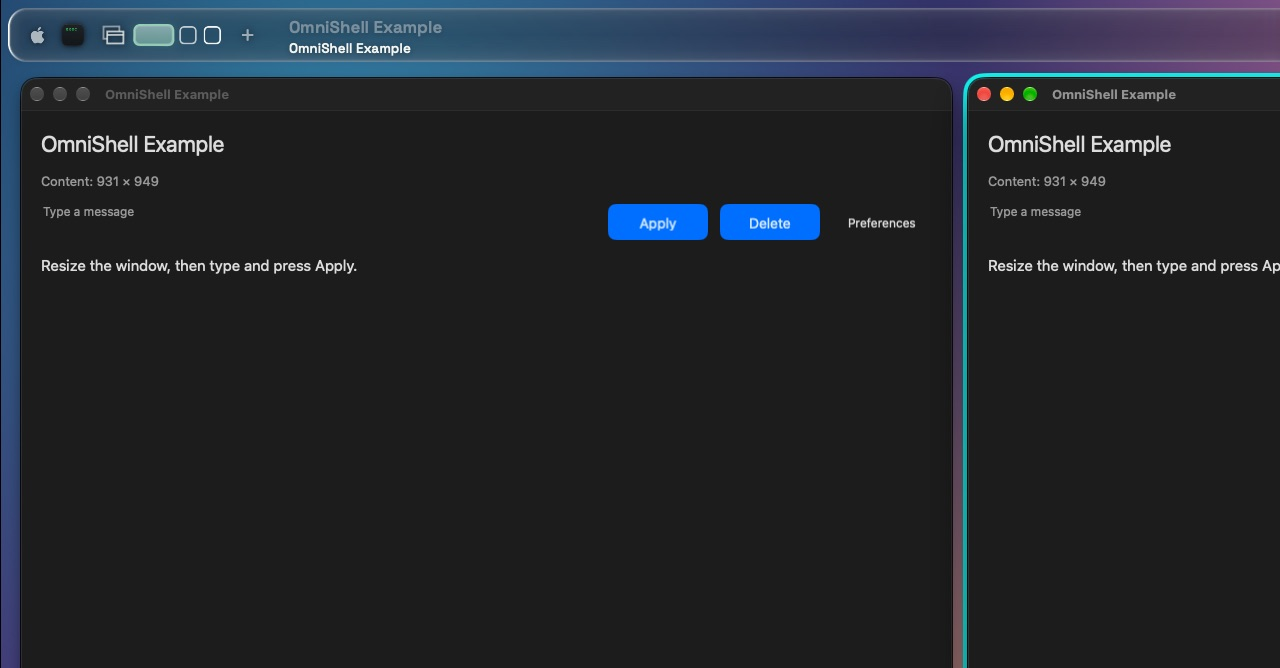
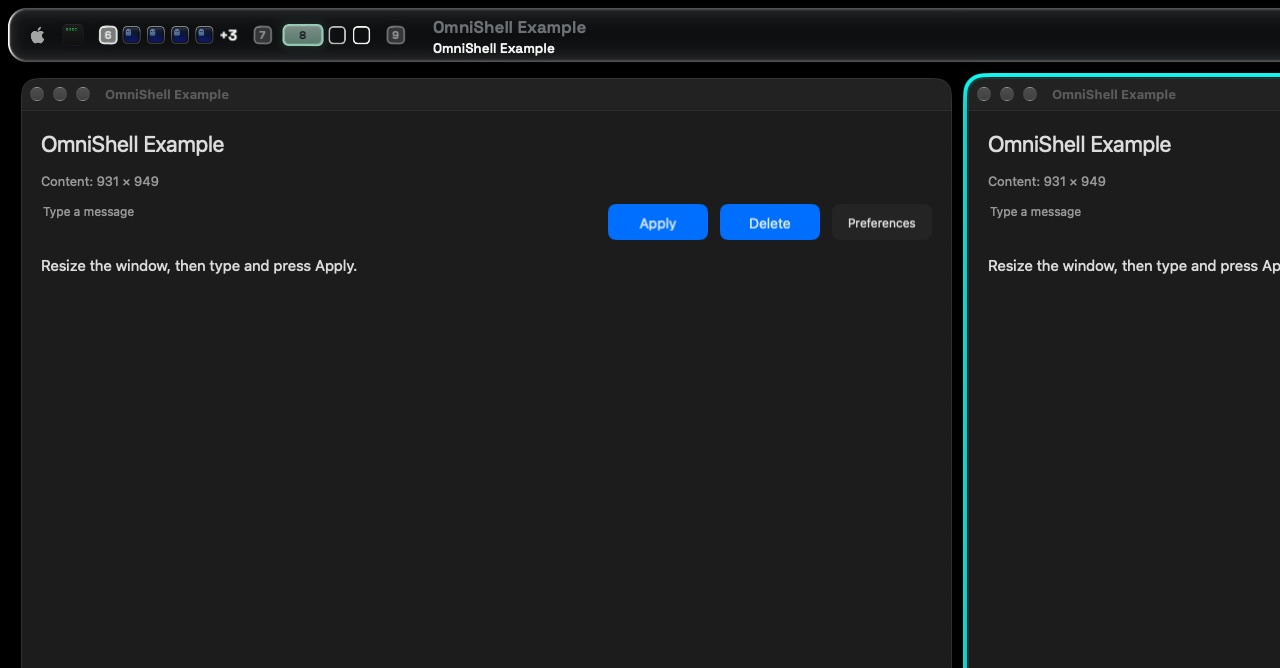
Name every workspace in the Vitreus bar
The Vitreus bar had an Overview button and a plus that no other style has,
and its workspace marks were blank, so nothing said what the solid pill or
the hollow squares were. It also listed only busy workspaces, unlike every
other style.

The Overview button and plus are gone; Option + Shift + O still opens
Overview. Every workspace is now listed, so Hide Empty Workspaces decides
which appear, as in other styles, and empty ones are dim. When Show Labels is
on, each mark shows its workspace name and a horizontal bar widens the mark
to fit it. The Left and Right layouts keep fixed marks and cut long names.

Changed region(s): [[0.0, 0.0, 1.0, 1.0]]

diff --git a/Tests/OmniWMTests/ShellVitreusBarTests+Marks.swift b/Tests/OmniWMTests/ShellVitreusBarTests+Marks.swift
@@ -15,7 +15,9 @@ extension ShellVitreusBarTests {
 
     private static let oneIconRun = 21.0
 
-    private func markWorkspace(_ id: String, occupied: Bool = false, focused: Bool = false) -> ShellBarWorkspace {
+    private func markWorkspace(
+        _ id: String, name: String? = nil, occupied: Bool = false, focused: Bool = false
+    ) -> ShellBarWorkspace {
         let items: [ShellBarItem] = occupied ? [ShellBarItem(
             id: "app-" + id, bundle: "test.app." + id, name: "App " + id, focused: focused,
             count: 1, hidden: 0, windows: [.init(
@@ -25,7 +27,7 @@ extension ShellVitreusBarTests {
                 hidden: false
             )]
         )] : []
-        return ShellBarWorkspace(id: id, name: "Room " + id, focused: focused, windows: items)
+        return ShellBarWorkspace(id: id, name: name ?? id, focused: focused, windows: items)
     }
 
     private func markData(active: String = "1", emptyActive: Bool = false) -> ShellBarData {
@@ -74,7 +76,7 @@ extension ShellVitreusBarTests {
             let widget = try markWidget(markData(), size: size)
             let unit = 1.35 * size
             let shell = try VitreusFixture.frame(widget, key: "shell")
-            let origin = shell.minX + (16 + 25.5) * unit
+            let origin = shell.minX + 16 * unit
             let pill = try VitreusFixture.frame(widget, key: "workspace-pill-shape")
             Self.assertRect(pill, CGRect(x: origin, y: shell.midY - 7.5 * unit, width: 29 * unit, height: 15 * unit))
             let occupied = try VitreusFixture.frame(widget, key: "workspace-square-2")
@@ -82,9 +84,11 @@ extension ShellVitreusBarTests {
                 x: origin + (38 + Self.oneIconRun) * unit, y: shell.midY - 6.25 * unit,
                 width: 12.5 * unit, height: 12.5 * unit
             ))
+            let empty = try VitreusFixture.frame(widget, key: "workspace-square-3")
+            XCTAssertEqual(empty.minX - occupied.maxX, (9 + Self.oneIconRun) * unit, accuracy: 0.001)
+            XCTAssertEqual(empty.size, occupied.size)
             let next = try VitreusFixture.frame(widget, key: "workspace-square-4")
-            XCTAssertEqual(next.minX - occupied.maxX, (9 + Self.oneIconRun) * unit, accuracy: 0.001)
-            XCTAssertFalse(Self.has(widget, "workspace-hit-3"))
+            XCTAssertEqual(next.minX - empty.maxX, 9 * unit, accuracy: 0.001)
             let radius = try markPaint(widget, "workspace-square-2").cornerRadius
             XCTAssertEqual(Double(radius), 3.75 * unit, accuracy: 0.001)
             let hit = try VitreusFixture.frame(widget, key: "workspace-hit-2")
@@ -92,38 +96,71 @@ extension ShellVitreusBarTests {
             XCTAssertEqual(hit.height, shell.height, accuracy: 0.001)
             let activeHit = try VitreusFixture.frame(widget, key: "workspace-hit-1")
             XCTAssertEqual(activeHit.maxX + Self.oneIconRun * unit, hit.minX, accuracy: 0.001)
-            let overview = try VitreusFixture.frame(widget, key: "workspace-overview")
-            XCTAssertEqual(Float(overview.width), Float(26 * unit))
-            XCTAssertEqual(Float(overview.height), Float(26 * unit))
-            XCTAssertEqual(
-                widget.surface.command(at: CGPoint(x: overview.maxX - unit / 2, y: overview.midY)),
-                "toggle-overview"
-            )
         }
     }
 
-    func testWorkspaceRowGrowsForOccupiedRoomsAndReservesTheHiddenPlusSlot() throws {
+    func testWorkspaceRowGrowsForEveryWorkspaceAndItsIcons() throws {
         var data = markData()
-        data.workspaces = (1 ... 10).map { markWorkspace(String($0), occupied: true, focused: $0 == 1) }
+        data.workspaces = (1 ... 9).map { markWorkspace(String($0), occupied: true, focused: $0 == 1) }
         let widget = try markWidget(data)
         let pill = try VitreusFixture.frame(widget, key: "shell")
-        XCTAssertEqual(pill.width, (450 + 271 + 10 * Self.oneIconRun - 128) * 1.35, accuracy: 0.001)
-        XCTAssertFalse(Self.has(widget, "workspace-new"))
-        let last = try VitreusFixture.frame(widget, key: "workspace-hit-10")
+        let row = 29 + 9 + 8 * (12.5 + 9) + 9 * Self.oneIconRun
+        XCTAssertEqual(pill.width, (450 + row - 128) * 1.35, accuracy: 0.001)
+        let last = try VitreusFixture.frame(widget, key: "workspace-hit-9")
         XCTAssertLessThan(last.maxX, pill.maxX - 16 * 1.35)
+    }
+
+    func testEveryWorkspaceShowsItsNameInATileThatFitsIt() throws {
+        var data = markData()
+        data.workspaces = [
+            markWorkspace("1", name: "Browser", occupied: true, focused: true),
+            markWorkspace("2", name: "Mail", occupied: true),
+            markWorkspace("3", name: "3")
+        ]
+        let widget = try markWidget(data)
+        let unit = 1.35
+        XCTAssertTrue(Set(["Browser", "Mail", "3"]).isSubset(of: widget.strings()))
+        for (id, square) in [("1", "workspace-pill-shape"), ("2", "workspace-square-2"), ("3", "workspace-square-3")] {
+            let text = try VitreusFixture.frame(widget, key: "workspace-name-text-" + id)
+            let tile = try VitreusFixture.frame(widget, key: square)
+            XCTAssertEqual(text.midX, tile.midX, accuracy: 0.001, id)
+            XCTAssertEqual(text.midY, tile.midY, accuracy: 0.001, id)
+            XCTAssertLessThanOrEqual(text.width, tile.width, id)
+            let hit = try VitreusFixture.frame(widget, key: "workspace-hit-" + id)
+            XCTAssertEqual(hit.width, tile.width + 9 * unit, accuracy: 0.001, id)
+        }
+        let pill = try VitreusFixture.frame(widget, key: "workspace-pill-shape")
+        let browser = try VitreusFixture.frame(widget, key: "workspace-name-text-1")
+        XCTAssertGreaterThan(pill.width, 29 * unit)
+        XCTAssertEqual(pill.width, browser.width + 6 * unit, accuracy: 0.001)
+        XCTAssertEqual(try VitreusFixture.frame(widget, key: "workspace-square-3").width, 12.5 * unit, accuracy: 0.001)
+    }
+
+    func testTurningWorkspaceLabelsOffLeavesBlankMarksAtTheirOwnSizes() throws {
+        var data = markData()
+        data.workspaces = [
+            markWorkspace("1", name: "Browser", occupied: true, focused: true),
+            markWorkspace("2", name: "Mail", occupied: true),
+            markWorkspace("3", name: "Empty")
+        ]
+        data.style.labels = false
+        let widget = try markWidget(data)
+        let unit = 1.35
+        XCTAssertFalse(widget.strings().contains("Browser"))
+        XCTAssertFalse(Self.has(widget, "workspace-name-1"))
+        XCTAssertEqual(try VitreusFixture.frame(widget, key: "workspace-pill-shape").width, 29 * unit, accuracy: 0.001)
+        XCTAssertEqual(try VitreusFixture.frame(widget, key: "workspace-square-2").width, 12.5 * unit, accuracy: 0.001)
+        XCTAssertEqual(try VitreusFixture.frame(widget, key: "workspace-square-3").width, 8 * unit, accuracy: 0.001)
     }
 
     func testWorkspaceFlatBodiesDeclareReferenceOpacityRimsGradientAndGlow() throws {
         let widget = try markWidget(markData())
         let square = try markRecipe(widget, "workspace-mark-2")
         let pill = try markRecipe(widget, "workspace-pill")
-        let plus = try markRecipe(widget, "workspace-plus")
         XCTAssertTrue(square.flat)
         XCTAssertTrue(pill.flat)
-        XCTAssertTrue(plus.flat)
         XCTAssertEqual(square.rim, 0.4, accuracy: 0.0001)
         XCTAssertEqual(pill.rim, 0.55, accuracy: 0.0001)
-        XCTAssertEqual(plus.rim, 0.3, accuracy: 0.0001)
         XCTAssertEqual(pill.gradientAngle, 90)
         let squarePaint = try markPaint(widget, "workspace-mark-2")
         XCTAssertEqual(squarePaint.opacity, 0.4675, accuracy: 0.0001)
@@ -137,13 +174,6 @@ extension ShellVitreusBarTests {
         XCTAssertEqual(pillPaint.shadow.role & 0xFF, UInt16(ShellRole.accent.rawValue + 1))
         XCTAssertEqual(Double(pillPaint.shadow.role >> 8) / 255, 0.3, accuracy: 0.003)
         XCTAssertEqual(pill.shadowOffset, .zero)
-        let plusHorizontal = try VitreusFixture.frame(widget, key: "workspace-plus-h")
-        let plusVertical = try VitreusFixture.frame(widget, key: "workspace-plus-v")
-        XCTAssertEqual(plusHorizontal.width, 14 * 0.62 * 1.35, accuracy: 0.001)
-        XCTAssertEqual(plusHorizontal.height, 1.6 * 1.35, accuracy: 0.001)
-        XCTAssertEqual(plusHorizontal.midX, plusVertical.midX, accuracy: 0.001)
-        XCTAssertEqual(plusHorizontal.midY, plusVertical.midY, accuracy: 0.001)
-        XCTAssertEqual(plusHorizontal.width, plusVertical.height, accuracy: 0.001)
     }
 
     func testWorkspacePillDeclaresIndependentLeadAndTrailAndKeepsMovingNatively() throws {
@@ -175,19 +205,18 @@ extension ShellVitreusBarTests {
         }
     }
 
-    func testWorkspaceMarksAndPlusDispatchExistingCommandsAndEmptyActiveHidesPlus() throws {
-        for (key, command) in [
-            ("workspace-hit-2", "switch-workspace 2"), ("workspace-new", "switch-workspace 3"),
-            ("workspace-overview", "toggle-overview")
-        ] {
+    func testBusyAndEmptyWorkspacesAreClickableWithNoOverviewOrPlus() throws {
+        for (key, command) in [("workspace-hit-2", "switch-workspace 2"), ("workspace-hit-3", "switch-workspace 3")] {
             let widget = try markWidget(markData())
             try VitreusFixture.click(widget, key: key)
             XCTAssertEqual(widget.clicks.last?.action, command)
+            XCTAssertFalse(widget.tree().contains { widget.text.string($0.content.text) == "toggle-overview" })
+            for removed in ["workspace-overview", "workspace-overview-icon", "workspace-new", "workspace-plus"] {
+                XCTAssertFalse(Self.has(widget, removed), removed)
+            }
         }
         let empty = try markWidget(markData(emptyActive: true))
         XCTAssertTrue(Self.has(empty, "workspace-hit-1"))
-        XCTAssertFalse(Self.has(empty, "workspace-new"))
-        XCTAssertFalse(Self.has(empty, "workspace-plus"))
     }
 
     func testWorkspaceMarksUseTheSuppliedDisplayAndNilStyleShowsNoMarks() throws {
@@ -202,7 +231,6 @@ extension ShellVitreusBarTests {
         var disabled = markData()
         disabled.barEnabled = false
         let absent = try markWidget(disabled)
-        XCTAssertFalse(Self.has(absent, "workspace-overview"))
         XCTAssertFalse(Self.has(absent, "workspace-pill"))
         XCTAssertFalse(Self.has(absent, "workspace-hit-2"))
     }
@@ -280,7 +308,6 @@ extension ShellVitreusBarTests {
             XCTAssertTrue(Self.has(widget, "workspace-special"), name)
             XCTAssertFalse(Self.has(widget, "workspace-hit-1"), name)
             XCTAssertFalse(Self.has(widget, "workspace-pill"), name)
-            XCTAssertFalse(Self.has(widget, "workspace-new"), name)
             let pending = try XCTUnwrap(VitreusFixture.drain(widget).first { $0.kind == OMNI_SERVICE_TIMER })
             XCTAssertEqual(pending.seconds, 0.2, accuracy: 0.0001)
             let frame = try VitreusFixture.frame(widget, key: "workspace-special")
@@ -488,8 +515,7 @@ extension ShellVitreusBarTests {
         let scale = 2
         for (key, shape) in [
             ("workspace-mark-2", "workspace-square-2"),
-            ("workspace-pill", "workspace-pill-shape"),
-            ("workspace-plus", "workspace-plus-h")
+            ("workspace-pill", "workspace-pill-shape")
         ] {
             profiles.append(try markRimProfile(widget, key: key, shape: shape, scale: scale))
         }

diff --git a/Tests/OmniWMTests/ShellVitreusMenusTests.swift b/Tests/OmniWMTests/ShellVitreusMenusTests.swift
@@ -163,8 +163,8 @@ extension ShellVitreusMenusTests {
         XCTAssertFalse(has(widget, "bar-app"))
         XCTAssertNotEqual(deps(widget) & ShellDataKey.menuApp.bit, 0)
         let oneIconRun = 21.0
-        let markRow = 25.5 + (29 + 9 + oneIconRun) + (12.5 + 9 + oneIconRun) + 14
-        let baseWidth = 450 + markRow - 128
+        let markRow = (29 + 9 + oneIconRun) + (12.5 + 9 + oneIconRun)
+        let baseWidth = 450 + max(markRow, 128) - 128
         XCTAssertEqual(try frame(widget, "shell").width, (baseWidth + 24) * unit, accuracy: 0.001)
         widget.set("menuApp") { safari.write(into: &$0) }
         VitreusFixture.show(widget, bar: bar(hides: true))
@@ -207,13 +207,13 @@ extension ShellVitreusMenusTests {
         XCTAssertEqual(pill.width, try frame(hidden, "shell").width + 52 * unit, accuracy: 0.001)
         XCTAssertEqual(pill.midX, 960, accuracy: 0.001)
         try assertLead(shown, x: pill.minX + 16 * unit, top: pill.minY, height: pill.height, "island")
-        try assertMoved(shown, hidden, Self.buttons + ["workspace-overview", "title-button"], dx: 26 * unit, "island")
+        try assertMoved(shown, hidden, Self.buttons + ["workspace-hit-1", "title-button"], dx: 26 * unit, "island")
         for layout in ["ftop", "fbottom"] {
             let shown = try widget(shell, layout: layout)
             let hidden = try widget(shell, layout: layout, hides: false)
             let strip = try frame(shown, "bar-hover")
             try assertLead(shown, x: 28 * unit, top: strip.minY, height: strip.height, layout)
-            try assertMoved(shown, hidden, ["workspace-overview"], dx: 52 * unit, layout)
+            try assertMoved(shown, hidden, ["workspace-hit-1"], dx: 52 * unit, layout)
             try assertMoved(shown, hidden, Self.buttons + ["title-button"], layout)
         }
     }
@@ -227,8 +227,8 @@ extension ShellVitreusMenusTests {
             XCTAssertTrue(shown.surface.isWithin(try VitreusFixture.element(shown, key: key), area), key)
         }
         try assertLead(shown, x: 26 * unit, top: 0, height: 36 * unit, "seg")
-        XCTAssertLessThan(try frame(shown, "bar-app").maxX, try frame(shown, "workspace-overview").minX)
-        try assertMoved(shown, hidden, ["workspace-overview"], dx: 52 * unit, "seg")
+        XCTAssertLessThan(try frame(shown, "bar-app").maxX, try frame(shown, "workspace-hit-1").minX)
+        try assertMoved(shown, hidden, ["workspace-hit-1"], dx: 52 * unit, "seg")
         let left = try frame(shown, "notch-left")
         let before = try frame(hidden, "notch-left")
         XCTAssertEqual(left.minX, before.minX, accuracy: 0.001)
@@ -258,7 +258,7 @@ extension ShellVitreusMenusTests {
                     "\(layout) \(key)"
                 )
             }
-            let kept = Self.buttons + ["workspace-overview", "workspace-hit-1", "workspace-hit-2"]
+            let kept = Self.buttons + ["workspace-hit-1", "workspace-hit-2"]
             try assertMoved(shown, hidden, kept, layout)
             XCTAssertEqual(
                 try frame(shown, "tray-wifi").midY, try frame(hidden, "tray-wifi").midY - 64 * unit, accuracy: 1,

diff --git a/Tests/OmniWMTests/ShellVitreusNotchesTests.swift b/Tests/OmniWMTests/ShellVitreusNotchesTests.swift
@@ -123,7 +123,7 @@ extension ShellVitreusNotchesTests {
         XCTAssertEqual(try frame(fixture, "bar-clock").midX, 960 - 164 * unit / 2, accuracy: 0.001)
         let span = try middle(fixture)
         let expected = [
-            ("notch-left", CGRect(x: -12 * unit, y: -12 * unit, width: (175.5 + markIcons) * unit, height: 48 * unit)),
+            ("notch-left", CGRect(x: -12 * unit, y: -12 * unit, width: (136 + markIcons) * unit, height: 48 * unit)),
             ("notch-middle", CGRect(x: span.from, y: -12 * unit, width: span.to - span.from, height: 48 * unit)),
             (
                 "notch-right",
@@ -157,7 +157,6 @@ extension ShellVitreusNotchesTests {
         XCTAssertEqual(controls.midX, 1920 - 32.5 * unit, accuracy: 0.001)
         XCTAssertEqual(logo.midX, 1920 - 58.5 * unit, accuracy: 0.001)
         XCTAssertEqual(search.midX, 1920 - (84 + statsRoom) * unit, accuracy: 0.001)
-        XCTAssertEqual(try frame(fixture, "workspace-overview").midX, 36 * unit, accuracy: 0.001)
         for key in ["bar-controls", "bar-clock", "title-button"] {
             XCTAssertEqual(try frame(fixture, key).minY, 0, accuracy: 0.001, key)
             XCTAssertEqual(try frame(fixture, key).height, 36 * unit, accuracy: 0.001, key)
@@ -259,7 +258,7 @@ extension ShellVitreusNotchesTests {
             XCTAssertTrue(fixture.widget.surface.containsShape(at: point), "\(point)")
         }
         let areas = [
-            ("left", CGRect(x: 0, y: 0, width: (163.5 + markIcons) * unit, height: 36 * unit)),
+            ("left", CGRect(x: 0, y: 0, width: (124 + markIcons) * unit, height: 36 * unit)),
             ("middle", CGRect(x: span.from, y: 0, width: span.to - span.from, height: 36 * unit)),
             (
                 "right",
@@ -297,7 +296,7 @@ extension ShellVitreusNotchesTests {
     func testEachPieceDrawsItsOwnSlotsOnADisplayWithoutANotch() throws {
         let fixture = try fixture()
         let owners = [
-            ("left", ["workspace-overview"]), ("middle", ["bar-clock", "title-button"]),
+            ("left", ["workspace-hit-1"]), ("middle", ["bar-clock", "title-button"]),
             ("right", ["bar-search", "bar-omniwm", "bar-controls"])
         ]
         for (name, keys) in owners {
@@ -429,7 +428,7 @@ extension ShellVitreusNotchesTests {
             CGRect(x: span.from, y: -12 * unit, width: span.to - span.from, height: 12 * unit + top + 36 * unit),
             "middle"
         )
-        for key in ["notch-left", "notch-right", "bar-controls", "workspace-overview"] {
+        for key in ["notch-left", "notch-right", "bar-controls", "workspace-hit-1"] {
             ShellVitreusBarTests.assertRect(try frame(notched, key), try frame(plain, key), key)
         }
         XCTAssertEqual(try frame(plain, "notch-middle").minY, -12 * unit, accuracy: 0.001)

diff --git a/Tests/OmniWMTests/ShellVitreusBarTests+IslandNotch.swift b/Tests/OmniWMTests/ShellVitreusBarTests+IslandNotch.swift
@@ -426,7 +426,6 @@ extension ShellVitreusBarTests {
                 for id in ["2", "3"] {
                     XCTAssertTrue(Self.has(widget, "workspace-square-" + id), label)
                 }
-                XCTAssertTrue(Self.has(widget, "workspace-overview"), label)
                 for (previous, next) in zip(visible, visible.dropFirst()) {
                     XCTAssertLessThan(previous.midX, next.midX, label)
                 }
@@ -504,21 +503,20 @@ extension ShellVitreusBarTests {
             local widths = { workspaces = { w = width, grow = grow, flow = cells },
                 title = { w = 0, grow = 0, minimum = 0 } }
             local bounds = { w = 200, top = 8 }
-            local band = { x0 = bounds.w / 2, x1 = 160 }
+            local band = { x0 = 60, x1 = 160 }
             local placed = bar.place(k, bounds.w / 2, bounds.top, { "workspaces", "title" }, widths, bounds.w, nil, band)
             local positions = placed.slots.workspaces.positions
             return ui.text{ text = table.concat({ positions["workspace-3"] or -1,
-                positions["workspace-1"] or -1, positions["workspace-2"] or -1, positions.overview or -1,
-                focused.at, focused.w - focused.at, placed.left, band.x0, placed.left + cells[1].at }, " ") }
+                positions["workspace-1"] or -1, positions["workspace-2"] or -1,
+                focused.at, focused.w - focused.at, placed.left, band.x0 }, " ") }
         end
         """).map { Self.numbers($0) }
         let row = try XCTUnwrap(rows.first)
         XCTAssertEqual(rows.count, 1)
-        XCTAssertGreaterThanOrEqual(row[0] - row[4], row[6])
-        XCTAssertLessThanOrEqual(row[0] + row[5], row[7])
+        XCTAssertGreaterThanOrEqual(row[0] - row[3], row[5])
+        XCTAssertLessThanOrEqual(row[0] + row[4], row[6])
         XCTAssertEqual(row[1], -1)
         XCTAssertEqual(row[2], -1)
-        XCTAssertEqual(row[3], row[8], accuracy: accuracy)
     }
 
     func testHiddenWorkspaceSlotsCancelTheirAnimationTimer() throws {
@@ -529,7 +527,7 @@ extension ShellVitreusBarTests {
                 style = {}, workspaces = {}, scratchpads = { { id = 7, visible = true } },
             } } }
             local slot = { hidden = ctx.data.app == "hidden",
-                positions = if ctx.data.app == "partial" then { overview = 10 } else nil }
+                positions = if ctx.data.app == "partial" then { other = 10 } else nil }
             marks.prepare(model, { k = { bu = 1, bcu = 1 }, island = { visible = true },
                 pill = { slots = { workspaces = slot } } })
             return ui.text{ text = "marks" }

diff --git a/Tests/OmniWMTests/ShellVitreusBarTests+Modules.swift b/Tests/OmniWMTests/ShellVitreusBarTests+Modules.swift
@@ -74,10 +74,8 @@ extension ShellVitreusBarTests {
                 rows[#rows + 1] = table.concat(parts, " ")
             end
             local search = pencil.icon("search", 100, 50, 1.35, 1, 3)
-            local over = pencil.icon("overview", 10, 10, 24.3, 0, 0, 1.35, 2)
             return ui.column{
                 ui.text{ text = table.concat(rows, ";") }, ui.text{ text = search[1].d }, ui.text{ text = search[4].d },
-                ui.text{ text = over[4].d .. "|" .. over[4].width .. "|" .. over[4].tone },
                 ui.stack{ w = 200, h = 100, table.unpack(pencil.draw(200, 100, search, "foreground", 0.65)) },
             }
         end
@@ -101,16 +99,6 @@ extension ShellVitreusBarTests {
             100 + 0.5 * unit + 5 * unit + jitter * sine(3 * 46 + 22781),
             50 + 0.4 * unit + 5 * unit + jitter * sine(3 * 51 + 22841)
         ], "faint handle")
-        let over = lines[3].split(separator: "|").map(String.init)
-        let rest = 0.1 * unit
-        let (dx, dy) = (10 + 0.4 * unit, 10 + 0.3 * unit)
-        expect(Self.numbers(over[0]), [
-            dx - 0.25 * 24.3 + rest * sine(23744), dy - 0.15 * 24.3 + rest * sine(23804),
-            dx + 0.41 * 24.3 + rest * sine(23841), dy - 0.15 * 24.3 + rest * sine(23901),
-            dx + 0.41 * 24.3 + rest * sine(23938), dy + 0.35 * 24.3 + rest * sine(23998),
-            dx - 0.25 * 24.3 + rest * sine(24035), dy + 0.35 * 24.3 + rest * sine(24095)
-        ], "faint overview window")
-        XCTAssertEqual(Array(over.dropFirst()), ["1.4", "2"])
     }
 
     func testPencilOutlinesAndLinesBowThroughTheirViaPoints() throws {

diff --git a/Tests/OmniWMTests/ShellVitreusFrameTests.swift b/Tests/OmniWMTests/ShellVitreusFrameTests.swift
@@ -170,11 +170,9 @@ extension ShellVitreusFrameTests {
     func testVerticalPiecesAreStackedAndTheTitleReadsUpTheStrip() throws {
         for edge in ["left", "right"] {
             let fixture = try fixture(edge)
-            let overview = try frame(fixture, "workspace-overview")
             let first = try frame(fixture, "workspace-hit-1")
             let second = try frame(fixture, "workspace-hit-2")
-            XCTAssertEqual(overview.midX, edge == "left" ? 31.05 : 1888.95, accuracy: 0.001)
-            XCTAssertGreaterThan(first.midY, overview.midY)
+            XCTAssertEqual(first.midX, edge == "left" ? 31.05 : 1888.95, accuracy: 0.001)
             XCTAssertGreaterThan(second.midY, first.midY)
             let controls = try frame(fixture, "bar-controls")
             let logo = try frame(fixture, "bar-omniwm")

diff --git a/Tests/OmniWMTests/ShellVitreusPlayerTests.swift b/Tests/OmniWMTests/ShellVitreusPlayerTests.swift
@@ -303,7 +303,7 @@ extension ShellVitreusPlayerTests {
         fixture.widget.resources.motion.userAnimationsEnabled = false
         show(fixture)
         XCTAssertNil(fixture.widget.surface.presence(paint.appear, for: target)?.animation)
-        for key in ["workspace-overview-icon", "workspace-mark-halo-2", "workspace-plus-halo"] {
+        for key in ["workspace-mark-halo-2"] {
             let slot = try handle(fixture, key).slot
             try ShellLayerScene.engineQueue.sync {
                 let layer = try XCTUnwrap(fixture.widget.surface.scene.layers[slot])
